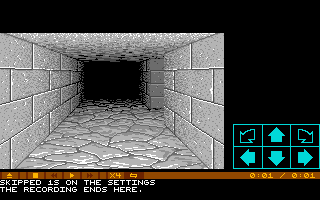
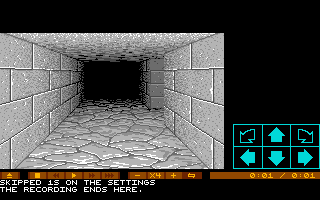
Debt E44: the strip's ten minutes forward, slow paces, - and +, black gaps

Changed region(s): [[0.0625, 0.84, 0.6562, 0.9]]

diff --git a/src/renderer/ui/RecordingStrip.ts b/src/renderer/ui/RecordingStrip.ts
@@ -2,11 +2,12 @@
  * A recording's viewer's strip: the page's own, over the message area's top row while
  * `?recording=` plays (`playRecording`, `src/main.ts`; `doc/RECORDING.md` → "The port's
  * player"). From the left, its controls, which a click or a key works, each an icon on a
- * face of its own between darker columns, in three groups: eject (Esc), which leaves for
- * the welcome page; stop (Backspace), rewind, which does nothing yet, play and pause
- * (Space), and a minute forward (→); the pace (`+`, `-`), ×1, ×2, ×4 or ×8, and loop
- * (L), which plays the recording again from its start at its end. Then, flush right, the
- * time played over the recording's length.
+ * face of its own between darker columns, in three groups with black between them: eject
+ * (Esc), which leaves for the welcome page; stop (Backspace), rewind, which does nothing
+ * yet, play and pause (Space), a minute forward (→) and ten minutes forward (Shift+→);
+ * slower (`-`), the pace, /4, /2, ×1, ×2, ×4 or ×8, which a click does not change, faster
+ * (`+`), and loop (L), which plays the recording again from its start at its end. Then,
+ * after black, flush right, the time played over the recording's length.
  *
  * It is drawn in the menu's font and colours (`Widgets.ts`), an icon lit under the
  * pointer, on CSBWin's screen as shown (`ScreenComposer.overlay`). The message area's
@@ -30,14 +31,16 @@ import { CHAR_WIDTH, LIT_COLOR, contains, drawText } from './Widgets';
 import type { UIState } from './UIState';
 
 /** The paces the viewer plays at: the loop's VBLs to a VBL of the wall clock (`Game.setPace`). */
-export const PACES = [1, 2, 4, 8] as const;
+export const PACES = [0.25, 0.5, 1, 2, 4, 8] as const;
 export type Pace = (typeof PACES)[number];
 
-/** The VBLs a click on forward runs at once: a minute of the game's. */
-export const FORWARD_VBLS = 60 * VBL_FREQUENCY;
+/** The VBLs forward runs at once: a minute of the game's, or ten (`forward10`). */
+export const FORWARD_VBLS = { forward: 60 * VBL_FREQUENCY, forward10: 600 * VBL_FREQUENCY } as const;
 
 /** What a control of the strip does. */
-export type StripAction = 'eject' | 'stop' | 'rewind' | 'play' | 'forward' | 'pace' | 'loop';
+export type StripAction = 'eject' | 'stop' | 'rewind' | 'play' | 'forward' | 'forward10' | 'slower' | 'faster' | 'loop';
+/** A face of the strip: a control's, or the pace's, which only shows it. */
+type Face = StripAction | 'pace';
 
 /**
  * What the strip shows: the VBLs played and the recording's, whether it is paused or has
@@ -62,27 +65,42 @@ const ICON_TOP = 173;
 const TIME_RIGHT = 316;
 /** The UI palette's `0310`, darker than the panel's `0420`: the columns between the faces, an inactive icon, and loop's face while it loops. */
 const DARK_COLOR = 3;
+/** The UI palette's `0000`: the gaps between the groups, the message area's own black. */
+const GAP_COLOR = 0;
 
-/** A face's width, the darker column's between two, and the panel's between two groups. */
+/** A face's width, the darker column's between two, and the black gap's after a group. */
 const FACE_WIDTH = 16;
 const COLUMN_WIDTH = 2;
-const GROUP_GAP = 6;
-/** The controls in their groups, from the left. */
-const GROUPS: ReadonlyArray<readonly StripAction[]> = [['eject'], ['stop', 'rewind', 'play', 'forward'], ['pace', 'loop']];
+const GROUP_GAP = 8;
+/** The faces in their groups, from the left. */
+const GROUPS: ReadonlyArray<readonly Face[]> = [
+  ['eject'], ['stop', 'rewind', 'play', 'forward', 'forward10'], ['slower', 'pace', 'faster', 'loop'],
+];
 
-/** Each control's face, the strip's height, a darker column on either side of it. */
-const FACES: ReadonlyArray<{ action: StripAction; rect: Rect }> = (() => {
-  const faces: { action: StripAction; rect: Rect }[] = [];
+/** Each face, the strip's height, a darker column on either side of it. */
+const FACES: ReadonlyArray<{ face: Face; rect: Rect }> = (() => {
+  const faces: { face: Face; rect: Rect }[] = [];
   let x = 0;
   for (const group of GROUPS) {
     x += COLUMN_WIDTH;
-    for (const action of group) {
-      faces.push({ action, rect: { x1: x, y1: STRIP_RECT.y1, x2: x + FACE_WIDTH - 1, y2: STRIP_RECT.y2 } });
+    for (const face of group) {
+      faces.push({ face, rect: { x1: x, y1: STRIP_RECT.y1, x2: x + FACE_WIDTH - 1, y2: STRIP_RECT.y2 } });
       x += FACE_WIDTH + COLUMN_WIDTH;
     }
     x += GROUP_GAP;
   }
   return faces;
+})();
+/** The black gaps after each group, the last one's before the time's panel. */
+const GAPS: readonly Rect[] = (() => {
+  const gaps: Rect[] = [];
+  let x = 0;
+  for (const group of GROUPS) {
+    x += COLUMN_WIDTH + group.length * (FACE_WIDTH + COLUMN_WIDTH);
+    gaps.push({ x1: x, y1: STRIP_RECT.y1, x2: x + GROUP_GAP - 1, y2: STRIP_RECT.y2 });
+    x += GROUP_GAP;
+  }
+  return gaps;
 })();
 
 /** The icons, five rows each, `#` drawn. */
@@ -93,14 +111,27 @@ const ICONS = {
   play: ['#...', '###.', '####', '###.', '#...'],
   pause: ['##.##', '##.##', '##.##', '##.##', '##.##'],
   forward: ['#..#..', '##.##.', '######', '##.##.', '#..#..'],
+  forward10: ['#..#..#..', '##.##.##.', '#########', '##.##.##.', '#..#..#..'],
+  slower: ['.....', '.....', '#####', '.....', '.....'],
+  faster: ['..#..', '..#..', '#####', '..#..', '..#..'],
   loop: ['.#.....', '#######', '#.....#', '#######', '.....#.'],
 } as const satisfies Record<string, readonly string[]>;
 
-/** Whether a control does something now: rewind is not yet, and forward only while the recording plays. */
+/**
+ * Whether a control does something now: rewind is not yet, forward only while the
+ * recording plays, and slower and faster short of the slowest and the fastest pace.
+ */
 function enabled(action: StripAction, state: StripState): boolean {
   if (action === 'rewind') return false;
-  if (action === 'forward') return !state.ended;
+  if (action === 'forward' || action === 'forward10') return !state.ended;
+  if (action === 'slower') return state.pace !== PACES[0];
+  if (action === 'faster') return state.pace !== PACES[PACES.length - 1];
   return true;
+}
+
+/** The pace as the strip shows it: `/4`, `/2`, then `X1` to `X8`. */
+function paceLabel(pace: Pace): string {
+  return pace < 1 ? `/${1 / pace}` : `X${pace}`;
 }
 
 /** The time played, `M:SS`, or `H:MM:SS` from an hour on: the VBLs over sixty. */
@@ -124,46 +155,47 @@ function drawIcon(ui: UIState, icon: readonly string[], face: Rect, color: numbe
 /** The strip drawn over the message area's top row. */
 export function drawRecordingStrip(ui: UIState, state: StripState): void {
   fillRectIndex(ui.screenIndexBuffer, STRIP_RECT, MENU_PANEL_COLOR);
-  for (const { action, rect } of FACES) {
-    const color = !enabled(action, state) ? DARK_COLOR : state.hover === action ? LIT_COLOR : MENU_OPTION_COLOR;
+  for (const gap of GAPS) fillRectIndex(ui.screenIndexBuffer, gap, GAP_COLOR);
+  for (const { face, rect } of FACES) {
     fillRectIndex(ui.screenIndexBuffer, { ...rect, x1: rect.x1 - COLUMN_WIDTH, x2: rect.x1 - 1 }, DARK_COLOR);
     fillRectIndex(ui.screenIndexBuffer, { ...rect, x1: rect.x2 + 1, x2: rect.x2 + COLUMN_WIDTH }, DARK_COLOR);
-    const face = action === 'loop' && state.loop ? DARK_COLOR : MENU_PANEL_COLOR;
-    fillRectIndex(ui.screenIndexBuffer, rect, face);
-    if (action === 'pace') {
-      const label = `X${state.pace}`;
-      drawText(ui, label, rect.x1 + Math.floor((FACE_WIDTH - label.length * CHAR_WIDTH + 1) / 2), STRIP_BASELINE, color, face);
-    } else {
-      const icon = action === 'play' ? (state.paused || state.ended ? ICONS.play : ICONS.pause) : ICONS[action];
-      drawIcon(ui, icon, rect, color);
+    const background = face === 'loop' && state.loop ? DARK_COLOR : MENU_PANEL_COLOR;
+    fillRectIndex(ui.screenIndexBuffer, rect, background);
+    if (face === 'pace') {
+      const label = paceLabel(state.pace);
+      drawText(ui, label, rect.x1 + Math.floor((FACE_WIDTH - label.length * CHAR_WIDTH + 1) / 2), STRIP_BASELINE, MENU_OPTION_COLOR, background);
+      continue;
     }
+    const color = !enabled(face, state) ? DARK_COLOR : state.hover === face ? LIT_COLOR : MENU_OPTION_COLOR;
+    const icon = face === 'play' ? (state.paused || state.ended ? ICONS.play : ICONS.pause) : ICONS[face];
+    drawIcon(ui, icon, rect, color);
   }
   const time = `${timePlayed(state.vbls)} / ${timePlayed(state.length)}`;
   drawText(ui, time, TIME_RIGHT - time.length * CHAR_WIDTH, STRIP_BASELINE);
 }
 
-/** The control at a point of the screen, or `null`, an inactive one's too. */
+/** The control at a point of the screen, or `null`, an inactive one's too, and the pace's. */
 export function stripActionAt(state: StripState, x: number, y: number): StripAction | null {
-  const face = FACES.find(({ rect }) => contains(rect, { x, y }));
-  return face && enabled(face.action, state) ? face.action : null;
+  const face = FACES.find(({ rect }) => contains(rect, { x, y }))?.face;
+  return face && face !== 'pace' && enabled(face, state) ? face : null;
 }
 
 /**
- * What a key does: a control's action, the pace one step up or down, or nothing (`null`).
- * Faster is the key that bears `+`, with or without Shift: `Equal`, `=` unshifted on a US
- * keyboard as on a French one, or the keypad's.
+ * What a key does: an active control's action, or nothing (`null`). Faster is the key
+ * that bears `+`, with or without Shift: `Equal`, `=` unshifted on a US keyboard as on a
+ * French one, or the keypad's.
  */
-export function stripKeyAction(press: KeyPress, state: StripState): StripAction | 'faster' | 'slower' | null {
+export function stripKeyAction(press: KeyPress, state: StripState): StripAction | null {
   if (press.ctrlKey || press.metaKey || press.altKey) return null;
   const action = keyAction(press);
-  return action === null || action === 'faster' || action === 'slower' || enabled(action, state) ? action : null;
+  return action !== null && enabled(action, state) ? action : null;
 }
 
-function keyAction(press: KeyPress): StripAction | 'faster' | 'slower' | null {
+function keyAction(press: KeyPress): StripAction | null {
   if (press.code === 'Space') return 'play';
   if (press.code === 'Backspace') return 'stop';
   if (press.code === 'Escape') return 'eject';
-  if (press.code === 'ArrowRight') return 'forward';
+  if (press.code === 'ArrowRight') return press.shiftKey ? 'forward10' : 'forward';
   if (press.code === 'ArrowLeft') return 'rewind';
   if (press.code === 'KeyL') return 'loop';
   if (press.key === '+' || press.code === 'Equal' || press.code === 'NumpadAdd') return 'faster';
@@ -171,10 +203,9 @@ function keyAction(press: KeyPress): StripAction | 'faster' | 'slower' | null {
   return null;
 }
 
-/** The pace after `pace`: one step `up` or down, held at either end, or the next round from ×8 to ×1 (`'round'`, a click's). */
-export function nextPace(pace: Pace, step: 'up' | 'down' | 'round'): Pace {
+/** The pace one step `up` or down from `pace`, held at either end. */
+export function nextPace(pace: Pace, step: 'up' | 'down'): Pace {
   const at = PACES.indexOf(pace);
-  if (step === 'round') return PACES[(at + 1) % PACES.length]!;
   return PACES[Math.max(0, Math.min(PACES.length - 1, at + (step === 'up' ? 1 : -1)))]!;
 }
 

diff --git a/src/main.ts b/src/main.ts
@@ -85,7 +85,7 @@ const RECORDING_LINE_COLOR = 15;
 /** How often the running recording is written to the store (`RecordingWriter`), in milliseconds. */
 const RECORDING_WRITE_MS = 5000;
 /** The time a recording's viewer stays at its end before loop plays it again (`playRecording`). */
-const LOOP_DELAY_MS = 5000;
+const LOOP_DELAY_MS = 2000;
 /**
  * The game this page plays, chosen from the manifest before anything else is loaded
  * (`?dungeon=<id>`, `chooseDataSet`).
@@ -705,8 +705,8 @@ function applySettings({ game }: Built, sound: SoundManager, values: SettingsVal
  * dialog as its PLAY left it where one played it (`RECORDING_STOPPED_HASH`); stop, which
  * plays the path again from its start in this page (`rewindPage`), paused once its first
  * tick has drawn the game; play and pause, play at the end being stop and play; a minute
- * forward, run at once in slices, unheard, the screen drawn after each (`Game.forward`);
- * the pace; and loop, which plays the path again from its start `LOOP_DELAY_MS` after its
+ * or ten forward, run at once in slices, unheard, the screen drawn after each
+ * (`Game.forward`); slower and faster, the pace between them; and loop, which plays the path again from its start `LOOP_DELAY_MS` after its
  * end, whatever ended it. Then the time played over the path's length. Stop and eject
  * end the message area played on alone. While the loop does not run, paused or at the
  * end, a move of the pointer is drawn at the display's next frame (`Presenter.animate`),
@@ -822,25 +822,25 @@ async function playRecording(built: Built, sound: SoundManager, id: string, { pa
         pace = next;
         if (!paused) game.setPace(pace);
     };
-    const act = (action: StripAction | 'faster' | 'slower'): void => {
+    const act = (action: StripAction): void => {
         switch (action) {
             case 'play':
                 if (!recordingPlayer?.playing) return restart(false);
                 paused = !paused;
                 game.setPace(paused ? 0 : pace);
                 break;
-            case 'forward': {
+            case 'forward':
+            case 'forward10': {
                 const player = recordingPlayer;
                 if (!player?.playing) return;
-                if (forwardTo !== null) forwardTo += FORWARD_VBLS;
+                if (forwardTo !== null) forwardTo += FORWARD_VBLS[action];
                 else if (!game.isForwarding) {
-                    forwardTo = player.vbls + FORWARD_VBLS;
+                    forwardTo = player.vbls + FORWARD_VBLS[action];
                     // A span under a held clock is run to its end, as the loop runs it.
                     runAtOnce(() => player.vbls < (forwardTo ?? 0) || player.held);
                 }
                 break;
             }
-            case 'pace': setPace(nextPace(pace, 'round')); break;
             case 'faster': setPace(nextPace(pace, 'up')); break;
             case 'slower': setPace(nextPace(pace, 'down')); break;
             case 'loop':

diff --git a/src/ui/howToPlay.ts b/src/ui/howToPlay.ts
@@ -98,12 +98,13 @@ const DIALOG = `
   <div class="how-sheet"></div>
   <section class="how-section how-replay">
     <h3 class="px">Watching a recording</h3>
-    <p>The strip over the messages shows the time played and the recording's length, and its buttons eject, stop, play and pause, go a minute forward, change the pace and loop. So do these keys:</p>
+    <p>The strip over the messages shows the time played and the recording's length, and its buttons eject, stop, play and pause, go a minute or ten forward, slow down and speed up, and loop. So do these keys:</p>
     <dl class="how-list">
       <dt><span class="how-key px px2">Space</span></dt><dd>Pause, and play on</dd>
       <dt><span class="how-key px px2">Backspace</span></dt><dd>Stop: back to the beginning, paused</dd>
       <dt><span class="how-key px px2">Right</span></dt><dd>A minute forward</dd>
-      <dt><span class="how-key px px2">+</span><span class="how-key px px2">-</span></dt><dd>Faster and slower: once, twice, four or eight times the game's pace</dd>
+      <dt><span class="how-key px px2">Shift</span><span class="how-key px px2">Right</span></dt><dd>Ten minutes forward</dd>
+      <dt><span class="how-key px px2">+</span><span class="how-key px px2">-</span></dt><dd>Faster and slower: from a quarter of the game's pace to eight times it</dd>
       <dt><span class="how-key px px2">L</span></dt><dd>Loop: play it again from the beginning at its end</dd>
       <dt><span class="how-key px px2">Esc</span></dt><dd>Eject, and come back to this page</dd>
     </dl>

diff --git a/src/engine/Game.ts b/src/engine/Game.ts
@@ -530,7 +530,7 @@ export class Game implements MainLoop {
      * A VBL that throws is CSBWin's `die`: the game dies (`die`), and the host reports it.
      *
      * At a pace other than 1 (`setPace`) the wall clock lets that many VBLs pass to its
-     * own, and at 0 none, the loop then waiting for a pace.
+     * own, a fraction of one at a pace under 1, and at 0 none, the loop then waiting for a pace.
      */
     private gameLoop = (): void => {
         if (!this.running || this.pace === 0 || this.forwarding) {
@@ -572,7 +572,7 @@ export class Game implements MainLoop {
 
     /**
      * The loop's VBLs to a VBL of the wall clock from now on (`gameLoop`): a recording's
-     * viewer's pace, 1, 2, 4 or 8, or 0, which holds the loop where it is until a pace is
+     * viewer's pace, from 1/4 to 8, or 0, which holds the loop where it is until a pace is
      * given again. Not CSBWin's, whose VBLs are the machine's. The wall clock counts on
      * from now, so no VBL is owed for the time before.
      */

diff --git a/src/renderer/GameInput.ts b/src/renderer/GameInput.ts
@@ -99,6 +99,8 @@ export interface KeyPress {
   ctrlKey: boolean;
   metaKey: boolean;
   altKey: boolean;
+  /** Shift held: only the recording viewer's strip reads it (`RecordingStrip.ts`). */
+  shiftKey?: boolean;
   /** The key held down, repeating. */
   repeat?: boolean;
 }

diff --git a/doc/UI_MODULE_MAP.md b/doc/UI_MODULE_MAP.md
@@ -49,7 +49,7 @@ A function that turns out not to need the state does not take it — the pure he
 | `ui/MapDialog.ts` | — (the port's own) | A level as the dialog over the game, its whole screen: `<`, the level's number and the square under the pointer, `>`, the marks' toggles G, M and I (a cross on each square with a generator, monsters or an item, `CellInfo.marked`) and CLOSE; the map at the left, at the largest whole cell that fits, a colour a room type, its columns and rows numbered, the party a triangle facing its way; at the right, the info of the square shown (`engine/CellInfo.ts`), a list whose links show the squares they name. With MAP VIEW on, the MAP key or a long press on the message area opens it (`GameInput`); a click shows a square; a page opened with `?dev` moves the party by a press held on one (`UIState.onTeleport`). `tools/checks/map-dialog.ts`, `tools/checks/map-cell-info.ts` |
 | `ui/ChampionDialog.ts` | — (the port's own) | The party's permanent numbers as the dialog over the game, its whole screen: a tabbed page of two tabs, CLOSE above it, and a table of four champion columns, the levels, maxima and attributes on ATTRIBUTES and the sixteen sub-skills on SKILLS, a level or sub-skill its mastery and a bar of its progress. With CHAMPION VIEW on, the CHAMPIONS key or a long press on a champion's stat bars opens it (`GameInput`), the long press marking that champion; a tap there is held back to its release, then queued as the inventory's click. `tools/checks/champion-dialog.ts` |
 | `ui/SettingsKeys.ts` | — (the port's own) | The settings dialog's KEYS tab: the presets (CSBWIN, KEYPAD, ARROWS, and CUSTOM for a table changed by hand), KEY LABELS' QWERTY or AZERTY where the browser does not give the keyboard's layout, and a scrolled list, three rows a notch of the wheel, of every `KeyAction` with its two keys. A click on a slot waits for a key, which fills it and leaves every other slot (`bindKey`); a right click empties it. `tools/checks/settings-dialog.ts`, `tools/checks/key-bindings.ts` |
-| `ui/RecordingStrip.ts` | — (the port's own) | A recording's viewer's strip while `?recording=` plays (`playRecording`, `src/main.ts`): over the message area's top row (`ScreenComposer.overlay`), whose lines are then drawn a row lower while its bottom row is empty, from the left, its controls as icons on faces between darker columns, lit under the pointer, in three groups: eject; stop, rewind (inactive), play or pause, and a minute forward (`Game.forward`); the pace (×1, ×2, ×4, ×8, `Game.setPace`) and loop; then the time played over the path's length flush right; and their keys, Esc, Backspace, Space, →, `+` and `-`, and L. Stop puts the page back as a new page has it (`rewindPage`), plays the path again, and pauses it at its first tick. `tools/checks/replay.ts` (point 11), `tools/probe-frames.ts` |
+| `ui/RecordingStrip.ts` | — (the port's own) | A recording's viewer's strip while `?recording=` plays (`playRecording`, `src/main.ts`): over the message area's top row (`ScreenComposer.overlay`), whose lines are then drawn a row lower while its bottom row is empty, from the left, its controls as icons on faces between darker columns, lit under the pointer, in three groups, black between them: eject; stop, rewind (inactive), play or pause, a minute forward and ten (`Game.forward`); slower, the pace (/4, /2, ×1, ×2, ×4, ×8, `Game.setPace`), which a click does not change, faster, and loop; then the time played over the path's length flush right; and their keys, Esc, Backspace, Space, → and Shift+→, `-` and `+`, and L. Stop puts the page back as a new page has it (`rewindPage`), plays the path again, and pauses it at its first tick. `tools/checks/replay.ts` (point 11), `tools/probe-frames.ts` |
 | `ui/KeyLabels.ts` | — (the port's own) | A key's label in the game's font: what the keyboard prints on it, from the browser's layout map (`navigator.keyboard.getLayoutMap()`) or the QWERTY or AZERTY table, a character the font cannot draw named in letters. `tools/checks/key-bindings.ts` |
 | `ui/Inventory.ts` | `CSBUI.cpp` | Inventory screen, slot rectangles, the open chest, the eye's object-info panel, scroll reading, the Hall of Champions menu (`TAG0189a8`) |
 | `ui/Character.ts` | `Character.cpp` | Portraits, hand icons, shield dots, the damage figure over a hurt champion's name (`DisplayCharacterDamage`'s blit), life/stamina/mana bars, attributes, food/water, carried load, possession slots |

diff --git a/doc/RECORDING.md b/doc/RECORDING.md
@@ -614,8 +614,9 @@ stays the page's, the strip over it as everywhere.
 a recording plays, drawn over the message area's top row, whose lines are then drawn a
 row lower while its bottom row is empty, so the three rows shown hold the newest. From
 the left, it shows its controls, which a click or a key works, each an icon on a face of
-its own between darker columns, in three groups: eject; stop, rewind, play and pause,
-and forward; the pace and loop. Then, flush right, the time played, the player's VBLs
+its own between darker columns, in three groups with black between them: eject; stop,
+rewind, play and pause, forward and ten minutes forward; slower, the pace, faster and
+loop. Then, after black, flush right, the time played, the player's VBLs
 since the path's start (`RecordingPlayer.vbls`) over sixty, over the path's length
 (`RecordingPlayer.length`), which the time played reaches at its end:
 
@@ -639,16 +640,18 @@ since the path's start (`RecordingPlayer.vbls`) over sixty, over the path's leng
 - **Rewind** (←): not yet; drawn darker, it does nothing.
 - **Play and pause** (Space): the loop held where it is (`Game.setPace(0)`), and on
   again. At the path's end, play is stop and play.
-- **Forward** (→): a minute of the path's VBLs run at once (`Game.forward`), five seconds
+- **Forward** (→, and Shift+→ ten minutes): a minute of the path's VBLs run at once (`Game.forward`), five seconds
   of them a slice, the page let run and the screen drawn between, and none heard
   (`SoundManager.setMuted`); a span under a held clock it ends in is run to its end. A
-  forward while one runs adds a minute to it; paused, it stays paused. It runs past no
+  forward while one runs adds its minute or ten to it; paused, it stays paused. It runs past no
   end: the path's end or a drift stops it as it stops the loop. `tools/checks/replay.ts`
   (point 11) runs each package's path at once from its start to the same end.
-- **The pace** (`+`, its key with or without Shift, and `-`, or a click, round from ×8 to ×1): the loop's VBLs to a VBL
-  of the wall clock, 1, 2, 4 or 8 (`Game.setPace`). A span under a held clock is run at
+- **Slower and faster** (`-`, and `+`, its key with or without Shift), the pace between
+  them, which a click does not change: the loop's VBLs to a VBL of the wall clock, /4,
+  /2, ×1, ×2, ×4 or ×8 (`Game.setPace`), a step a press, slower darker at /4 and faster
+  at ×8. A span under a held clock is run at
   once at any pace.
-- **Loop** (L): the path played again from its start five seconds after its end
+- **Loop** (L): the path played again from its start two seconds after its end
   (`LOOP_DELAY_MS`), whatever ended it, as long as it is on; its face darker while it is.
 
 Stop and eject end the message area played on alone.

diff --git a/DEBT.md b/DEBT.md
@@ -535,7 +535,7 @@ opens its map) and by a screenshot over the dev server's fortnight.
 ### E44 ⏸ The recording viewer seeks back
 
 The viewer's strip (`doc/RECORDING.md` → "The port's player") pauses, sets the pace, loops,
-stops at the start, and runs a minute forward at once (`Game.forward`); its rewind is
+stops at the start, and runs a minute or ten forward at once (`Game.forward`); its rewind is
 drawn, inactive. Wanted: back by a minute, as designed with the author. Steps of 10 s,
 in the first design, are on neither. Size M for step 1, L with step 2.
 
